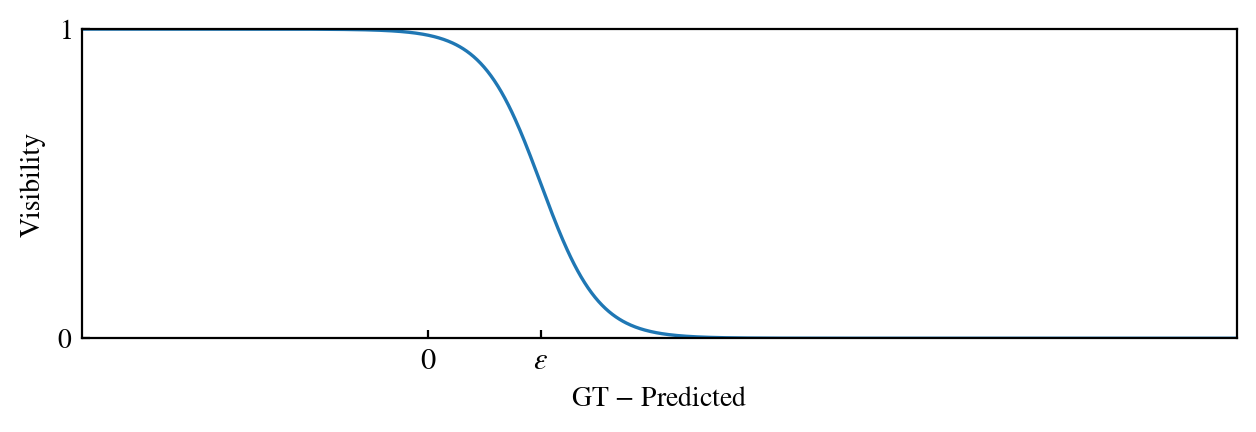
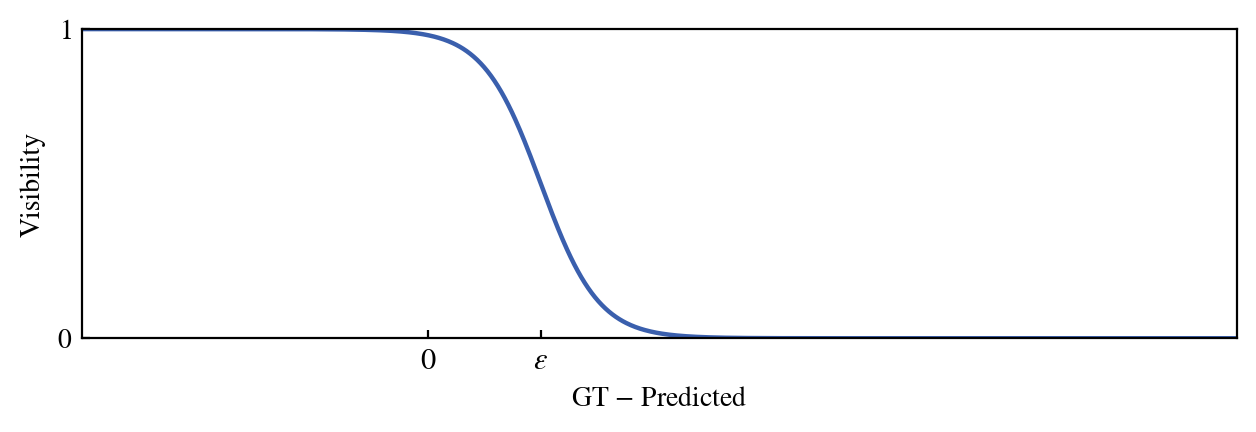
fig_sigmoid: scheme-blue line
Claude-Session: https://claude.ai/code/session_017bPfE3Je3phM9kFyvCyA3K

diff --git a/scripts/figures/fig_sigmoid.py b/scripts/figures/fig_sigmoid.py
@@ -112,7 +112,7 @@ def main():
     # layout matches the paper's original sigmoid.pdf: wide-short boxed
     # axes, ticks only at {0, epsilon} and {0, 1}, no legend or annotations
     fig, ax = plt.subplots(figsize=(6.4, 2.3))
-    ax.plot(x, visibility, color="tab:blue", linewidth=1.2)
+    ax.plot(x, visibility, color="#3A5FAD", linewidth=1.6)  # SphereJEPA blue
     ax.set_xlabel(r"GT $-$ Predicted", fontsize=10)
     ax.set_ylabel("Visibility", fontsize=10)
     ax.set_xticks([0.0, epsilon])
